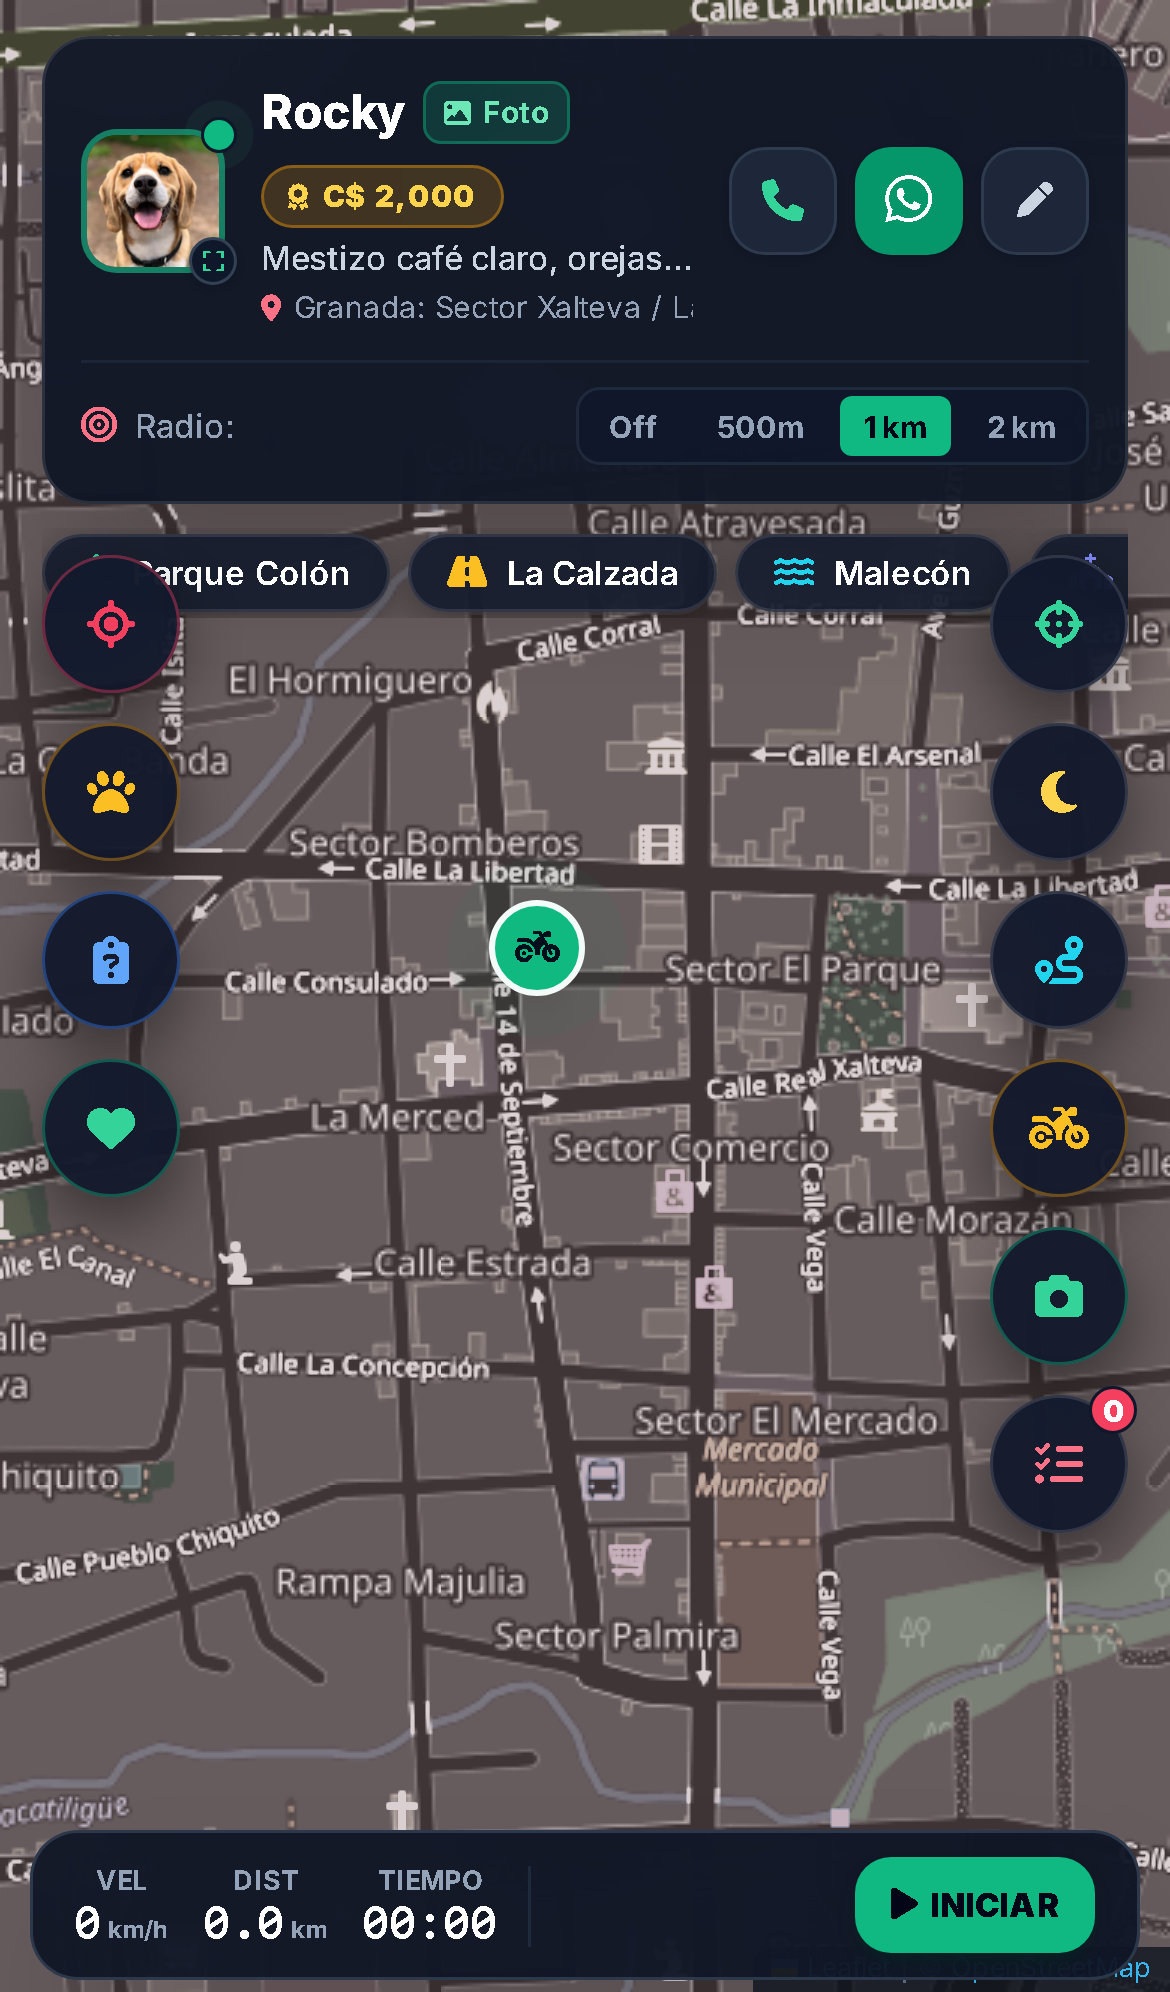
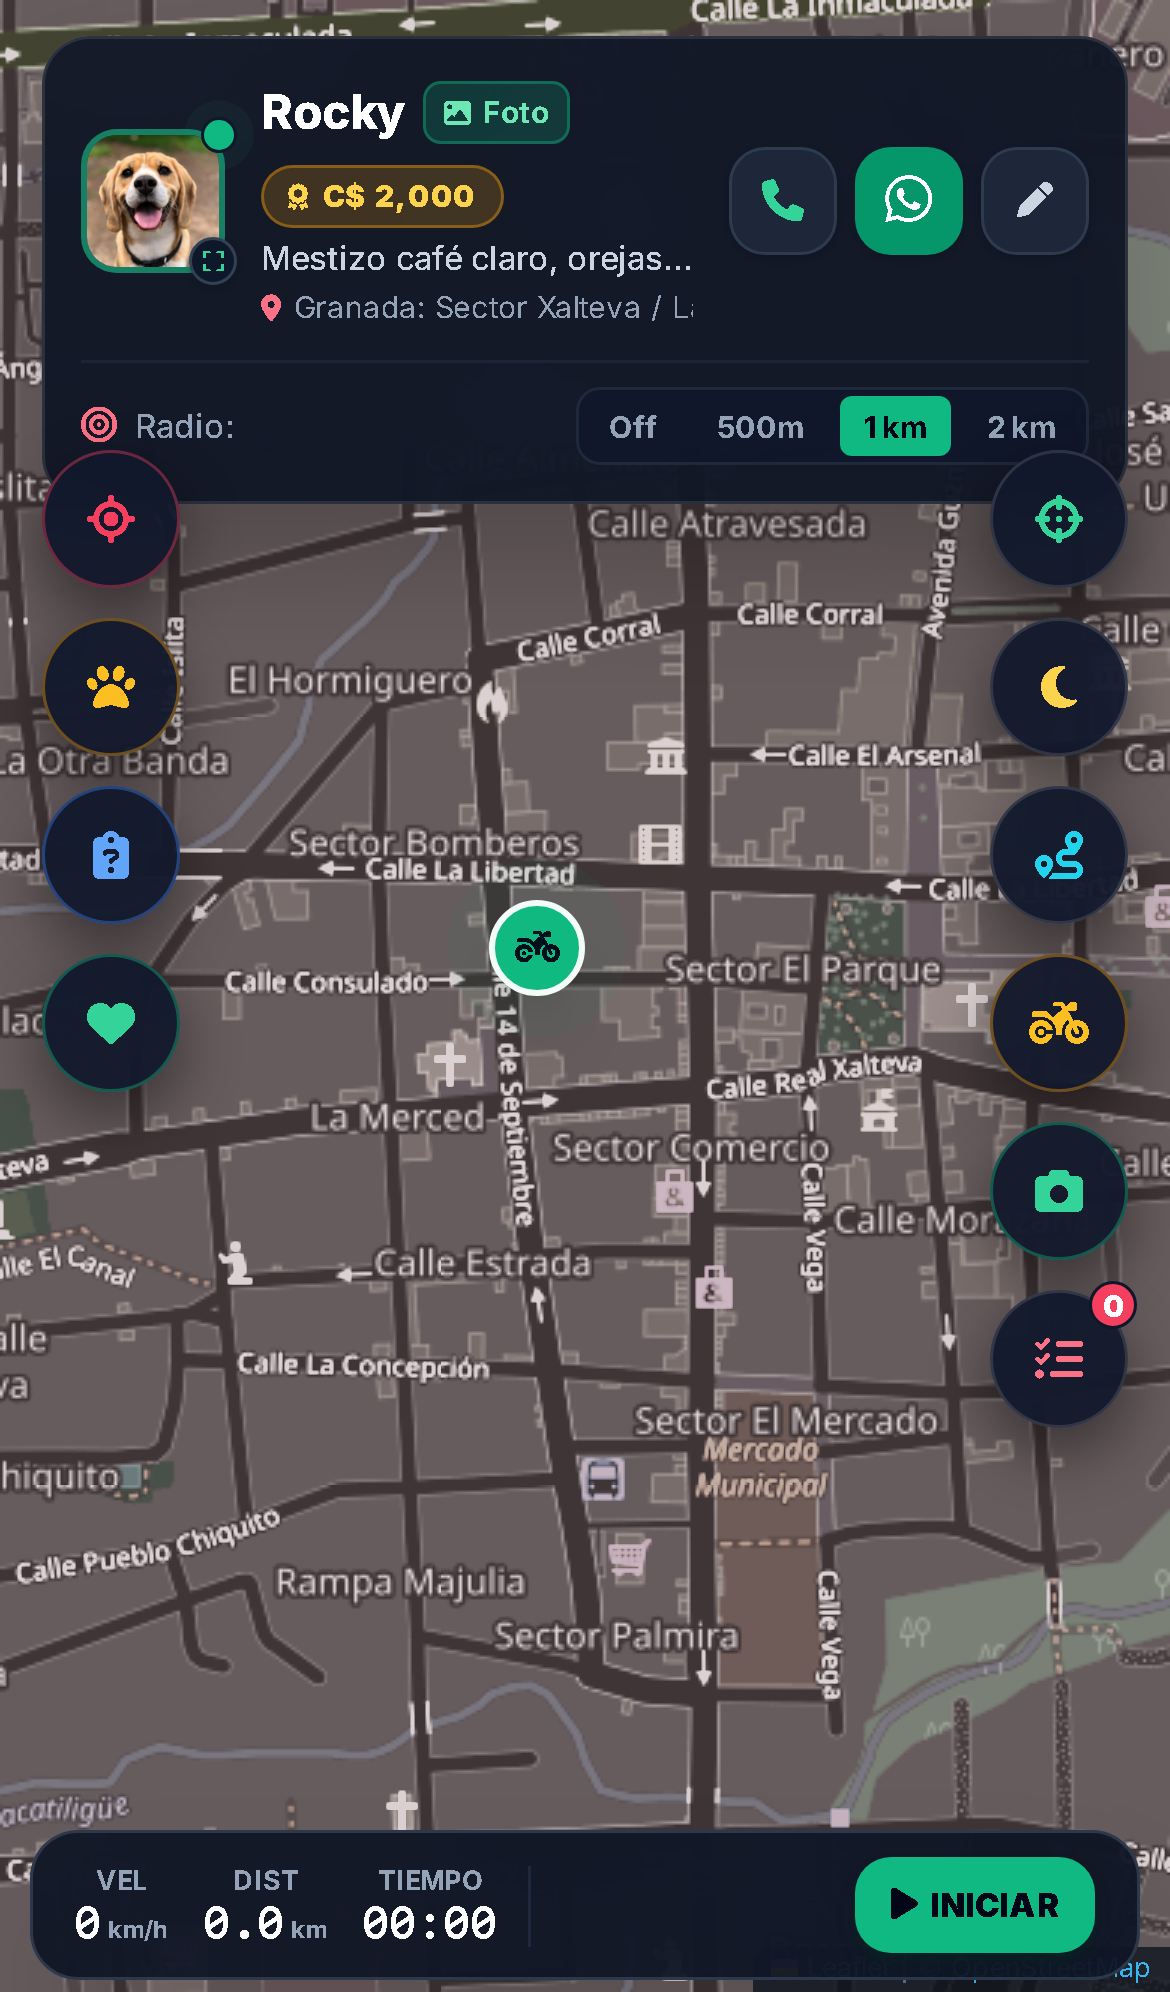
feat: setup next.js project wrapper and static export configuration

Changed region(s): [[0.0308, 0.249, 0.9846, 0.7781]]

diff --git a/index.html b/index.html
@@ -350,37 +350,6 @@
             </div>
           </div>
         </div>
-
-        <!-- Atajos Rápidos de Lugares en Granada (Píldoras con scroll suave) -->
-        <div
-          class="flex items-center gap-1.5 mt-2 overflow-x-auto no-scrollbar py-0.5"
-        >
-          <button
-            onclick="panToPreset('colon')"
-            class="shrink-0 glass-pill text-white text-[11px] font-semibold px-3 py-1 rounded-full flex items-center gap-1.5 active:scale-95 transition"
-          >
-            <i class="fa-solid fa-tree text-emerald-400 text-xs"></i> Parque
-            Colón
-          </button>
-          <button
-            onclick="panToPreset('calzada')"
-            class="shrink-0 glass-pill text-white text-[11px] font-semibold px-3 py-1 rounded-full flex items-center gap-1.5 active:scale-95 transition"
-          >
-            <i class="fa-solid fa-road text-amber-400 text-xs"></i> La Calzada
-          </button>
-          <button
-            onclick="panToPreset('malecon')"
-            class="shrink-0 glass-pill text-white text-[11px] font-semibold px-3 py-1 rounded-full flex items-center gap-1.5 active:scale-95 transition"
-          >
-            <i class="fa-solid fa-water text-cyan-400 text-xs"></i> Malecón
-          </button>
-          <button
-            onclick="panToPreset('xalteva')"
-            class="shrink-0 glass-pill text-white text-[11px] font-semibold px-3 py-1 rounded-full flex items-center gap-1.5 active:scale-95 transition"
-          >
-            <i class="fa-solid fa-church text-indigo-400 text-xs"></i> Xalteva
-          </button>
-        </div>
       </div>
     </header>
 
@@ -388,7 +357,7 @@
     <!-- BOTONES FLOTANTES IZQUIERDA: PINES RÁPIDOS              -->
     <!-- ======================================================== -->
     <div
-      class="absolute left-3.5 top-[185px] z-20 flex flex-col gap-2.5 pointer-events-auto"
+      class="absolute left-3.5 top-[150px] z-20 flex flex-col gap-2.5 pointer-events-auto"
     >
       <!-- 1: Última vez visto -->
       <button
@@ -431,7 +400,7 @@
     <!-- BOTONES FLOTANTES DERECHA: HERRAMIENTAS Y RUTA           -->
     <!-- ======================================================== -->
     <div
-      class="absolute right-3.5 top-[185px] z-20 flex flex-col gap-2.5 pointer-events-auto"
+      class="absolute right-3.5 top-[150px] z-20 flex flex-col gap-2.5 pointer-events-auto"
     >
       <!-- Centrar Ubicación GPS -->
       <button

diff --git a/public/index.html b/public/index.html
@@ -350,37 +350,6 @@
             </div>
           </div>
         </div>
-
-        <!-- Atajos Rápidos de Lugares en Granada (Píldoras con scroll suave) -->
-        <div
-          class="flex items-center gap-1.5 mt-2 overflow-x-auto no-scrollbar py-0.5"
-        >
-          <button
-            onclick="panToPreset('colon')"
-            class="shrink-0 glass-pill text-white text-[11px] font-semibold px-3 py-1 rounded-full flex items-center gap-1.5 active:scale-95 transition"
-          >
-            <i class="fa-solid fa-tree text-emerald-400 text-xs"></i> Parque
-            Colón
-          </button>
-          <button
-            onclick="panToPreset('calzada')"
-            class="shrink-0 glass-pill text-white text-[11px] font-semibold px-3 py-1 rounded-full flex items-center gap-1.5 active:scale-95 transition"
-          >
-            <i class="fa-solid fa-road text-amber-400 text-xs"></i> La Calzada
-          </button>
-          <button
-            onclick="panToPreset('malecon')"
-            class="shrink-0 glass-pill text-white text-[11px] font-semibold px-3 py-1 rounded-full flex items-center gap-1.5 active:scale-95 transition"
-          >
-            <i class="fa-solid fa-water text-cyan-400 text-xs"></i> Malecón
-          </button>
-          <button
-            onclick="panToPreset('xalteva')"
-            class="shrink-0 glass-pill text-white text-[11px] font-semibold px-3 py-1 rounded-full flex items-center gap-1.5 active:scale-95 transition"
-          >
-            <i class="fa-solid fa-church text-indigo-400 text-xs"></i> Xalteva
-          </button>
-        </div>
       </div>
     </header>
 
@@ -388,7 +357,7 @@
     <!-- BOTONES FLOTANTES IZQUIERDA: PINES RÁPIDOS              -->
     <!-- ======================================================== -->
     <div
-      class="absolute left-3.5 top-[185px] z-20 flex flex-col gap-2.5 pointer-events-auto"
+      class="absolute left-3.5 top-[150px] z-20 flex flex-col gap-2.5 pointer-events-auto"
     >
       <!-- 1: Última vez visto -->
       <button
@@ -431,7 +400,7 @@
     <!-- BOTONES FLOTANTES DERECHA: HERRAMIENTAS Y RUTA           -->
     <!-- ======================================================== -->
     <div
-      class="absolute right-3.5 top-[185px] z-20 flex flex-col gap-2.5 pointer-events-auto"
+      class="absolute right-3.5 top-[150px] z-20 flex flex-col gap-2.5 pointer-events-auto"
     >
       <!-- Centrar Ubicación GPS -->
       <button

diff --git a/app/page.tsx b/app/page.tsx
@@ -4,7 +4,7 @@ export default function Home() {
   return (
     <div style={{ width: '100vw', height: '100dvh', margin: 0, padding: 0, overflow: 'hidden' }}>
       <iframe
-        src="/index.html?v=10"
+        src="/index.html?v=11"
         style={{ width: '100%', height: '100%', border: 'none' }}
         allow="geolocation; camera; accelerometer; gyroscope"
         title="HuellaGPS - Granada, Nicaragua"
